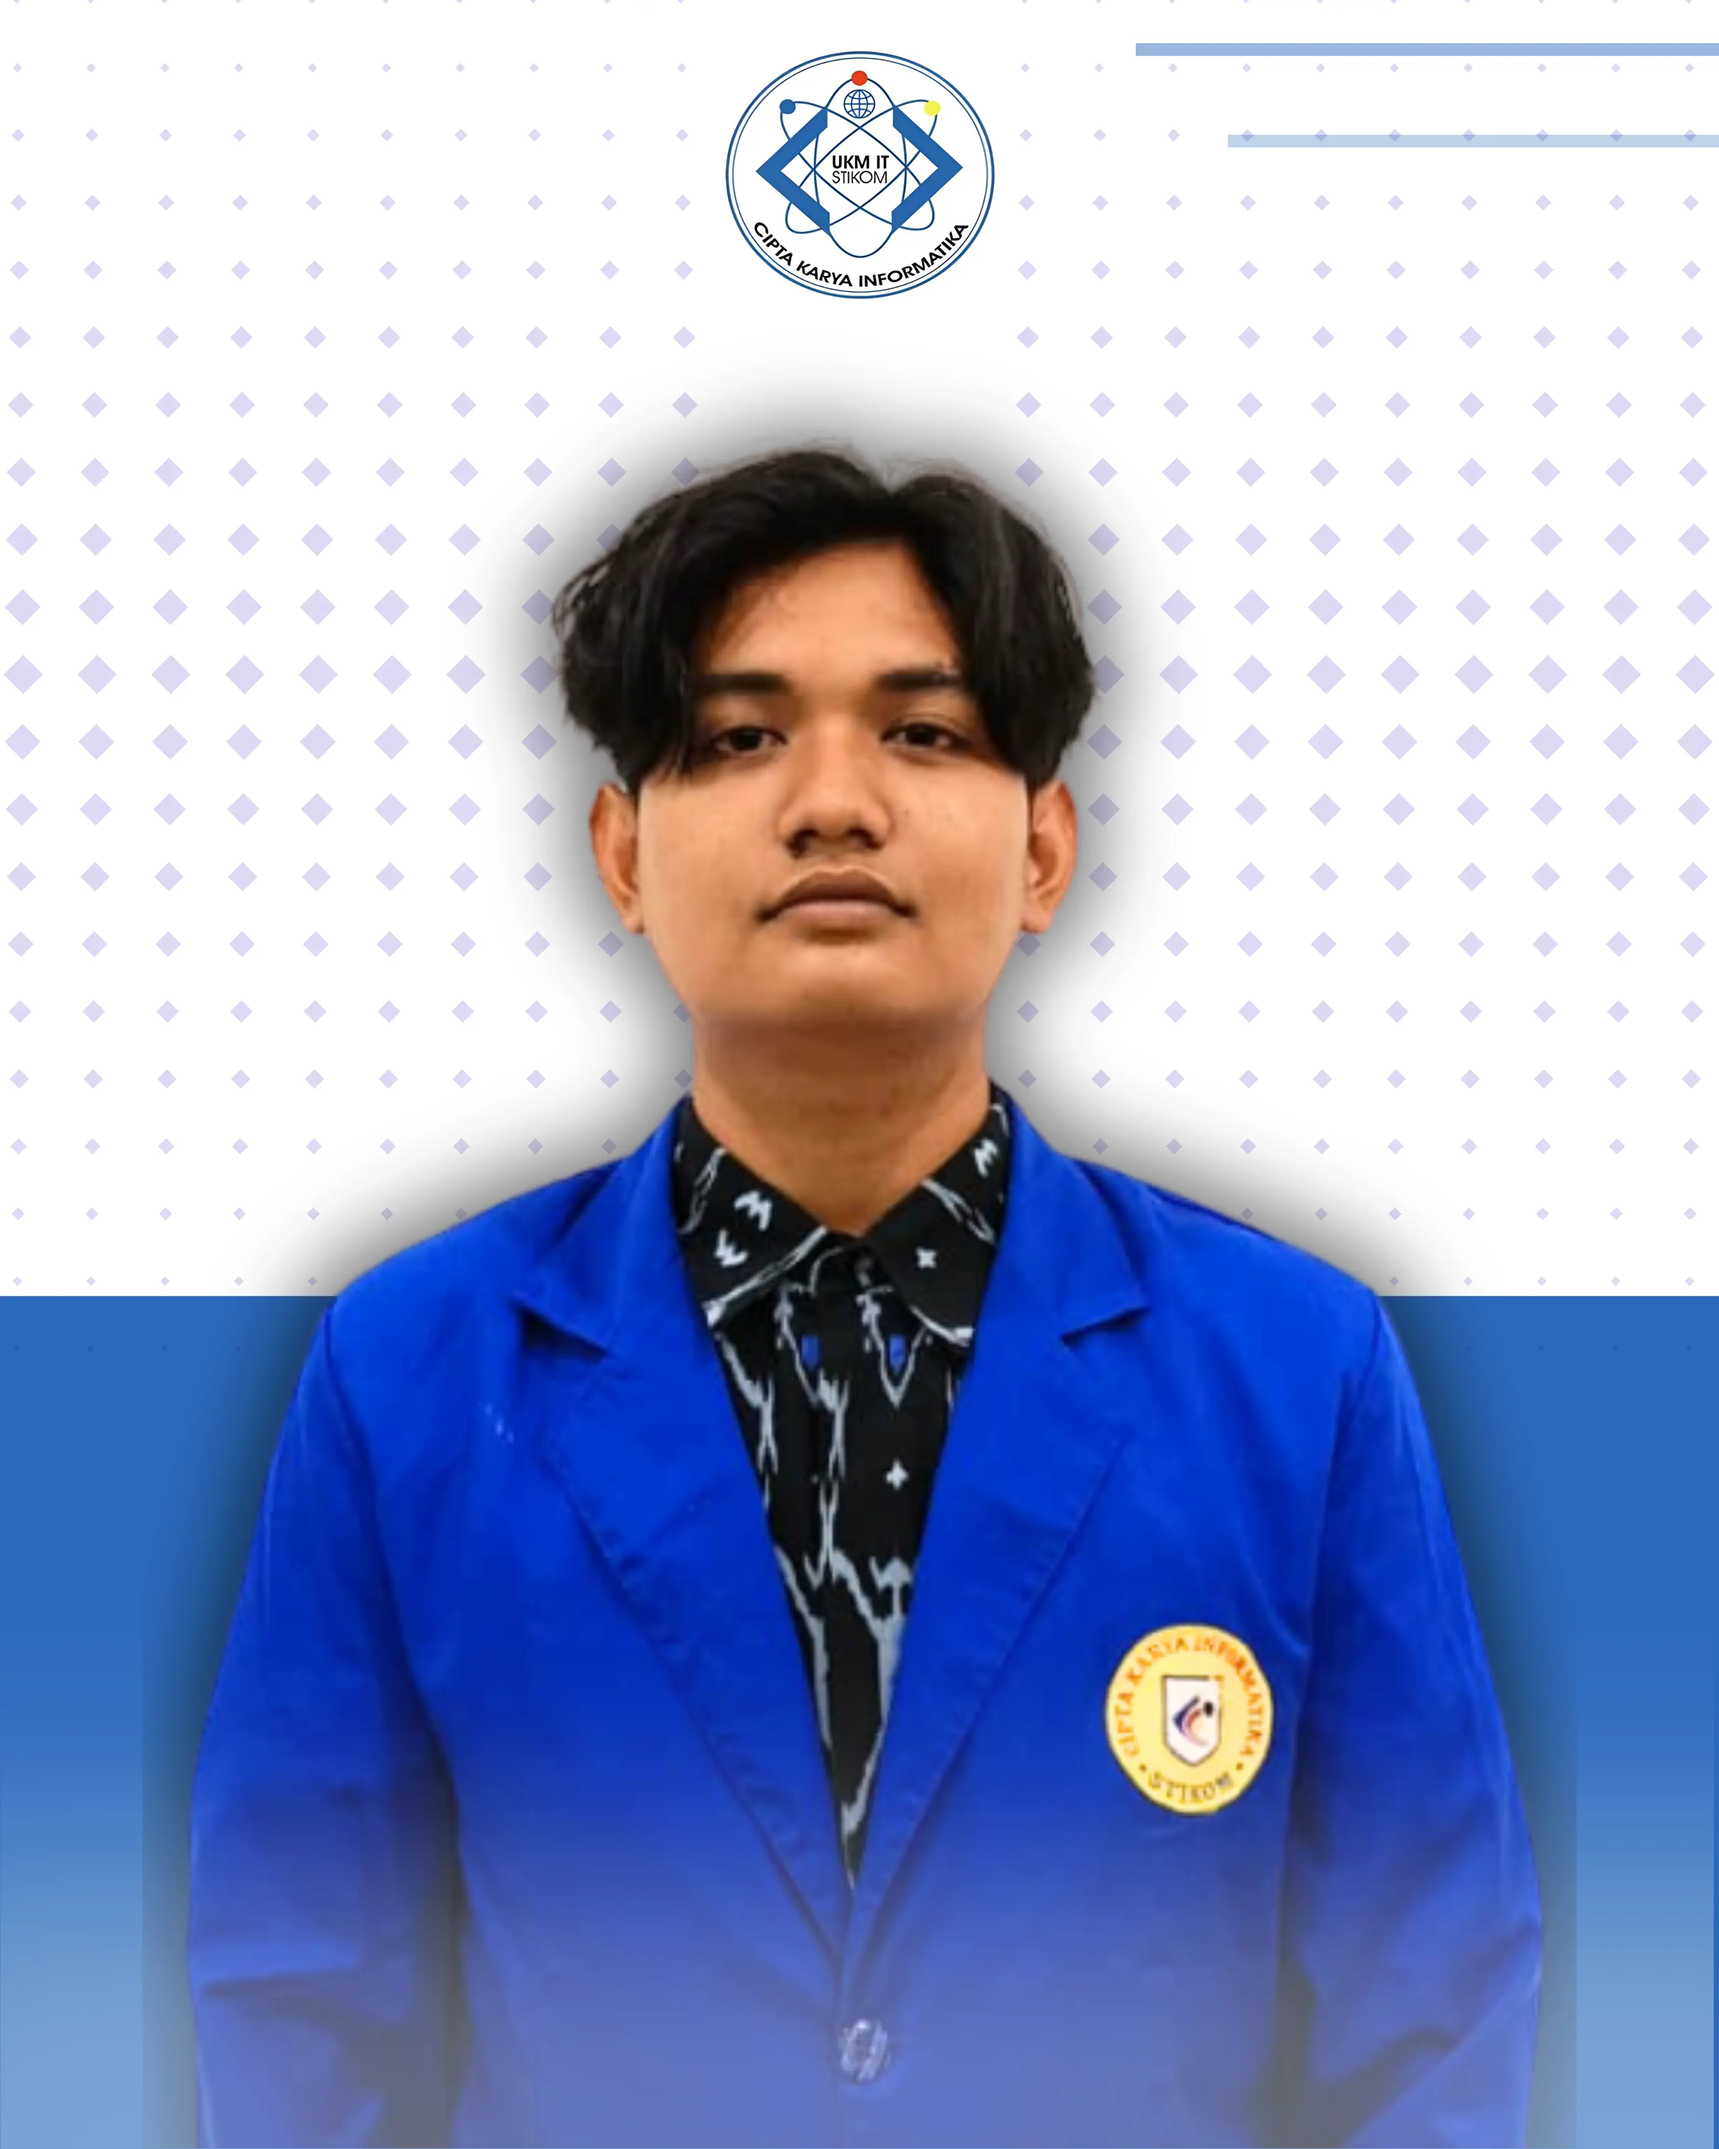
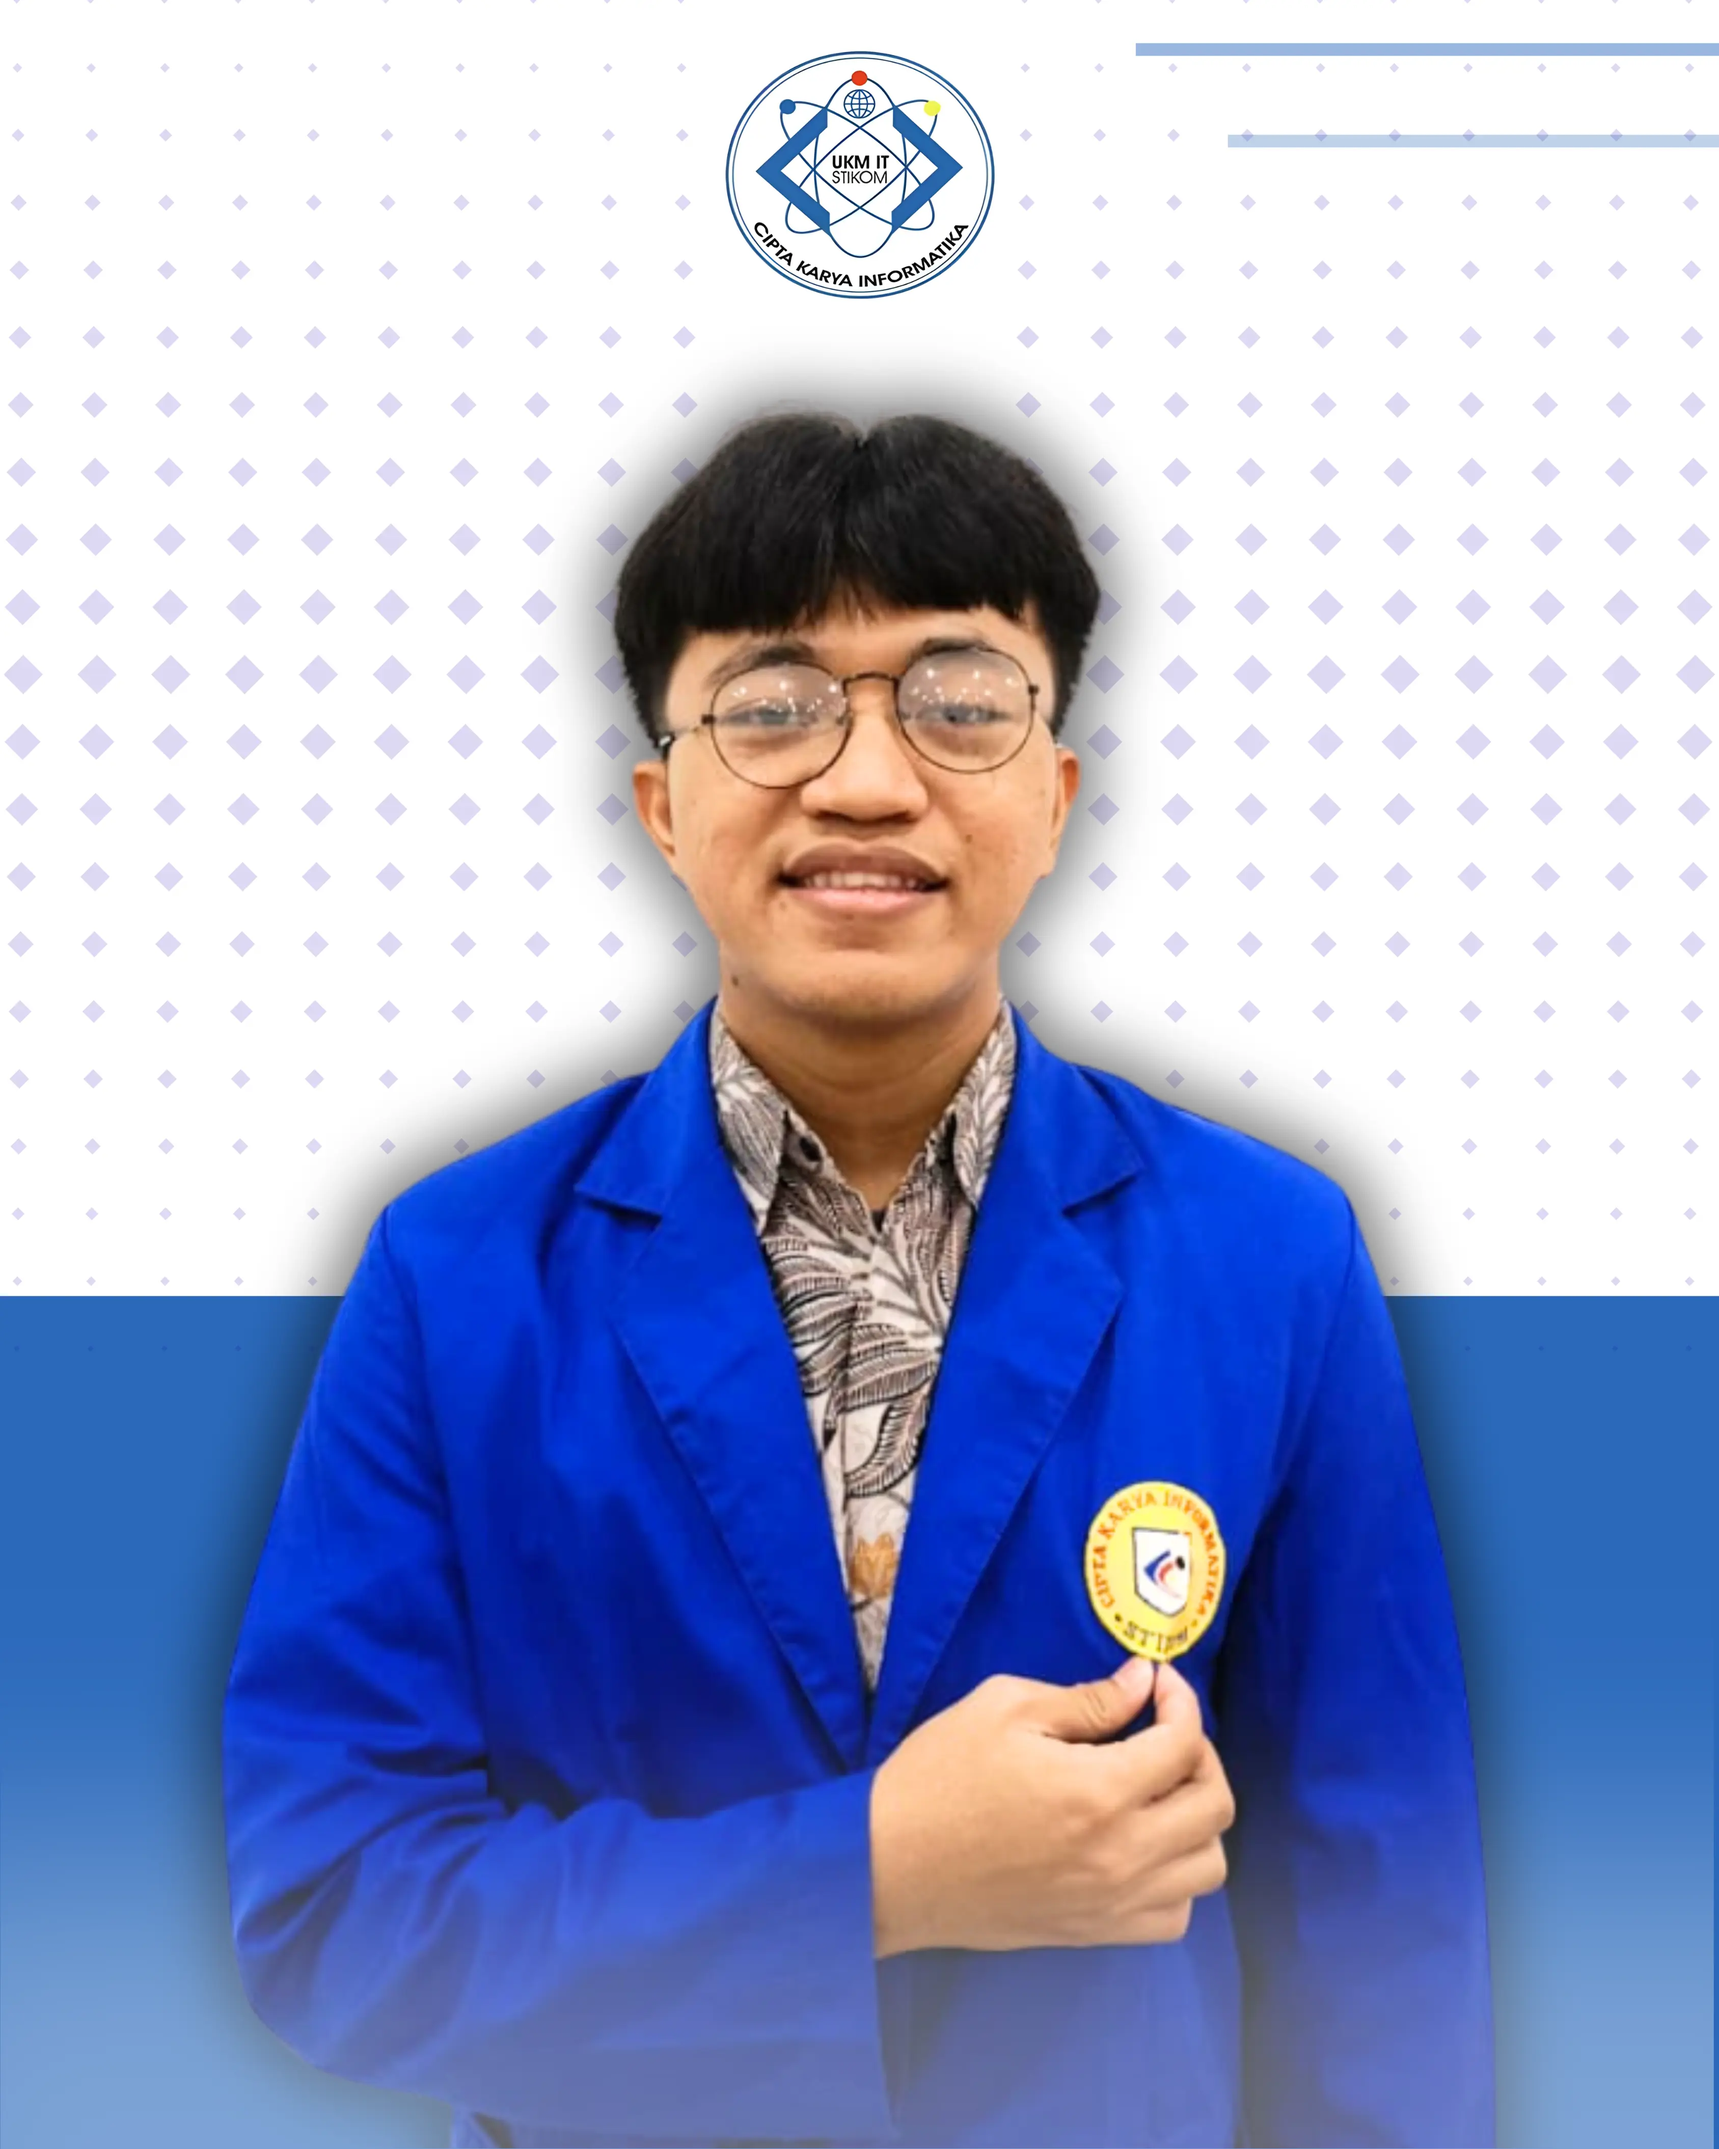
Add Sheets registration and project updates

Changed region(s): [[0.0622, 0.1553, 0.9333, 1.0]]

diff --git a/src/components/Project.jsx b/src/components/Project.jsx
@@ -2,6 +2,7 @@ import React, { useRef } from 'react';
 import { Github, ChevronLeft, ChevronRight, Link } from 'lucide-react';
 import Project1 from '../assets/Img/Project1.webp';
 import Project2 from '../assets/Img/Project2.webp';
+import Project3 from '../assets/Img/Project3.webp';
 import Maintence from '../assets/Img/under_maintenance.webp';
 
 // --- KOMPONEN KARTU PROYEK ---
@@ -100,17 +101,17 @@ export default function Showcase() {
       image: Project2,
       category: "Computer Vision",
       title: "Finger Counter",
-      description: "Program berbasis web mendeteksi gerakan tangan lalu menghitung jumlah jari, dan memberikan umpan balik audio secara langsung.",
+      description: "Aplikasi berbasis web mendeteksi gerakan tangan lalu menghitung jumlah jari, dan memberikan umpan balik audio secara langsung.",
       githubUrl: "https://github.com/UKM-IT-CKI/Finger-Counter.git",
       linkUrl: "https://ukmit-finger-counter.streamlit.app/"
     },
     {
-      image: Maintence,
-      category: "Coming Soon",
-      title: "On Progress",
-      description: "Coming Soon",
-      githubUrl: "#",
-      linkUrl: ""
+      image: Project3,
+      category: "Computer Vision",
+      title: "Puzzle Cam",
+      description: "Aplikasi web photobooth dan puzzle interaktif berbasis AI Hand Gesture Recognition yang berjalan di browser, tanpa instalasi dependensi, dan dapat diakses langsung oleh siapa saja.",
+      githubUrl: "https://github.com/UKM-IT-CKI/PuzzleCam.git",
+      linkUrl: "https://puzzlecam-beige.vercel.app/"
     },
     {
       image: Maintence,

diff --git a/src/components/Pengurus.jsx b/src/components/Pengurus.jsx
@@ -11,7 +11,6 @@ import img8 from '../assets/Img/Humas_2.webp'
 import img9 from '../assets/Img/Humas_3.webp'
 import img10 from '../assets/Img/Keilmuan_1.webp'
 import img11 from '../assets/Img/Keilmuan_2.webp'
-import img12 from '../assets/Img/Keilmuan_3.webp'
 
 // --- KOMPONEN FITUR CARD ---
 const PengurusCard = React.memo(({ pengurus, position, isCenter }) => {
@@ -187,7 +186,7 @@ export default function Pengurus() {
         {
             id: 3,
             image: img3,
-            name: "Novia Faradina Zahra",
+            name: "Okha Rizky Pratama",
             division: "Sekretaris I",
             platforms: [
                 { name: 'Web', active: true },
@@ -267,18 +266,8 @@ export default function Pengurus() {
         {
             id: 11,
             image: img11,
-            name: "Okha Rizky Pratama",
-            division: "Keilmuan II",
-            platforms: [
-                { name: 'Web', active: true },
-                { name: 'Mobile', active: true },
-            ]
-        },
-        {
-            id: 12,
-            image: img12,
             name: "Muhammad Talkhis Al Rawi",
-            division: "Keilmuan III",
+            division: "Keilmuan II",
             platforms: [
                 { name: 'Web', active: true },
                 { name: 'Mobile', active: true },

diff --git a/api/submit.js b/api/submit.js
@@ -5,6 +5,10 @@ export default async function handler(req, res) {
 
     const GOOGLE_SCRIPT_URL = process.env.GOOGLE_SCRIPT_URL;
 
+    if (!GOOGLE_SCRIPT_URL) {
+        return res.status(500).json({ status: 'error', message: 'GOOGLE_SCRIPT_URL is not configured' });
+    }
+
     try {
         const response = await fetch(GOOGLE_SCRIPT_URL, {
             method: 'POST',
@@ -13,6 +17,12 @@ export default async function handler(req, res) {
             },
             body: JSON.stringify(req.body),
         });
+
+        const result = await response.json();
+
+        if (!response.ok || result.status !== 'success') {
+            return res.status(502).json({ status: 'error', message: result.message || 'Google Sheets rejected the submission' });
+        }
 
         return res.status(200).json({ status: 'success' });
     } catch (error) {

diff --git a/src/components/JoinForm.jsx b/src/components/JoinForm.jsx
@@ -2,7 +2,7 @@ import React, { useState } from "react";
 import { ChevronRight, Loader2, Send, AlertCircle, MessageCircle } from 'lucide-react';
 
 export default function JoinForm() {
-    const [isRegistrationOpen, setIsRegistrationOpen] = useState(false);
+    const [isRegistrationOpen] = useState(true);
 
     const [formData, setFormData] = useState({
         nama: "",

diff --git a/README.md b/README.md
@@ -1,6 +1,6 @@
 <div align="center">
 
-# 🚀 Website UKM IT CKI
+# Website UKM IT CKI
 
 ### Unit Kegiatan Mahasiswa Teknologi Informasi
 
@@ -18,11 +18,11 @@
 
 ---
 
-## 📋 Tentang Project
+## Tentang Project
 
 Website UKM IT STIKOM CKI Jakarta. Platform ini dirancang untuk memberikan informasi tentang kegiatan, project, dan cara bergabung dengan UKM IT.
 
-## 🚀 Tech Stack
+## Tech Stack
 
 <table>
   <tr>
@@ -51,26 +51,14 @@ Website UKM IT STIKOM CKI Jakarta. Platform ini dirancang untuk memberikan infor
 
 ## ✨ Fitur
 
-- 🎨 **Modern Design** - UI/UX yang modern dan menarik
-- 📱 **Responsive** - Tampilan optimal di semua perangkat
-- ⚡ **Fast Loading** - Optimasi performa dengan Vite
-- 🎭 **Smooth Animations** - Animasi yang halus dan interaktif
-- 📝 **WhatsApp Integration** - Form pendaftaran terintegrasi dengan WhatsApp
-- 🖼 **Activity Gallery** - Galeri kegiatan dengan marquee animation
+- **Modern Design** - UI/UX yang modern dan menarik
+- **Responsive** - Tampilan optimal di semua perangkat
+- **Fast Loading** - Optimasi performa dengan Vite
+- **Smooth Animations** - Animasi yang halus dan interaktif
+- **WhatsApp Integration** - Form pendaftaran terintegrasi dengan WhatsApp
+- **Activity Gallery** - Galeri kegiatan dengan marquee animation
 
-## 🌐 Demo
-
-Kunjungi website kami di: **[https://ukmit-cki.vercel.app/](#)**
-
-
-### 🐛 Melaporkan Bug
-
-Jika Anda menemukan bug, silakan buat [Laporan Bug](https://github.com/UKM-IT-CKI/web-ukmitcki-v1/issues/1) dengan:
-- Jelaskan deskripsi bug
-- Screenshot jika ada
-- Environment details (browser, OS, dll)
-
-## 🌐 Social Media
+## Social Media
 
 <div align="center">
 
@@ -81,7 +69,7 @@ Jika Anda menemukan bug, silakan buat [Laporan Bug](https://github.com/UKM-IT-CK
 
 </div>
 
-## 📁 Struktur Project
+## Struktur Project
 
 ```
 
